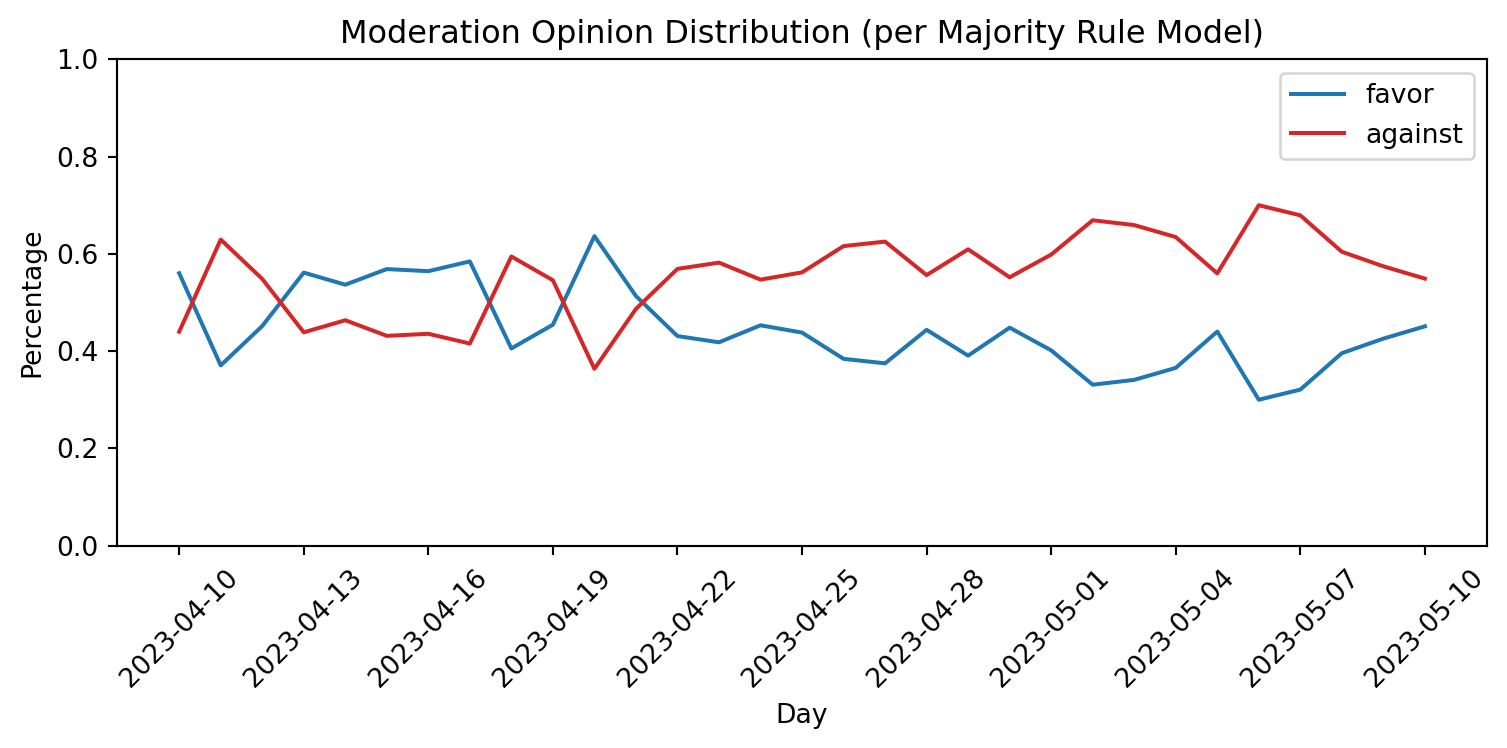
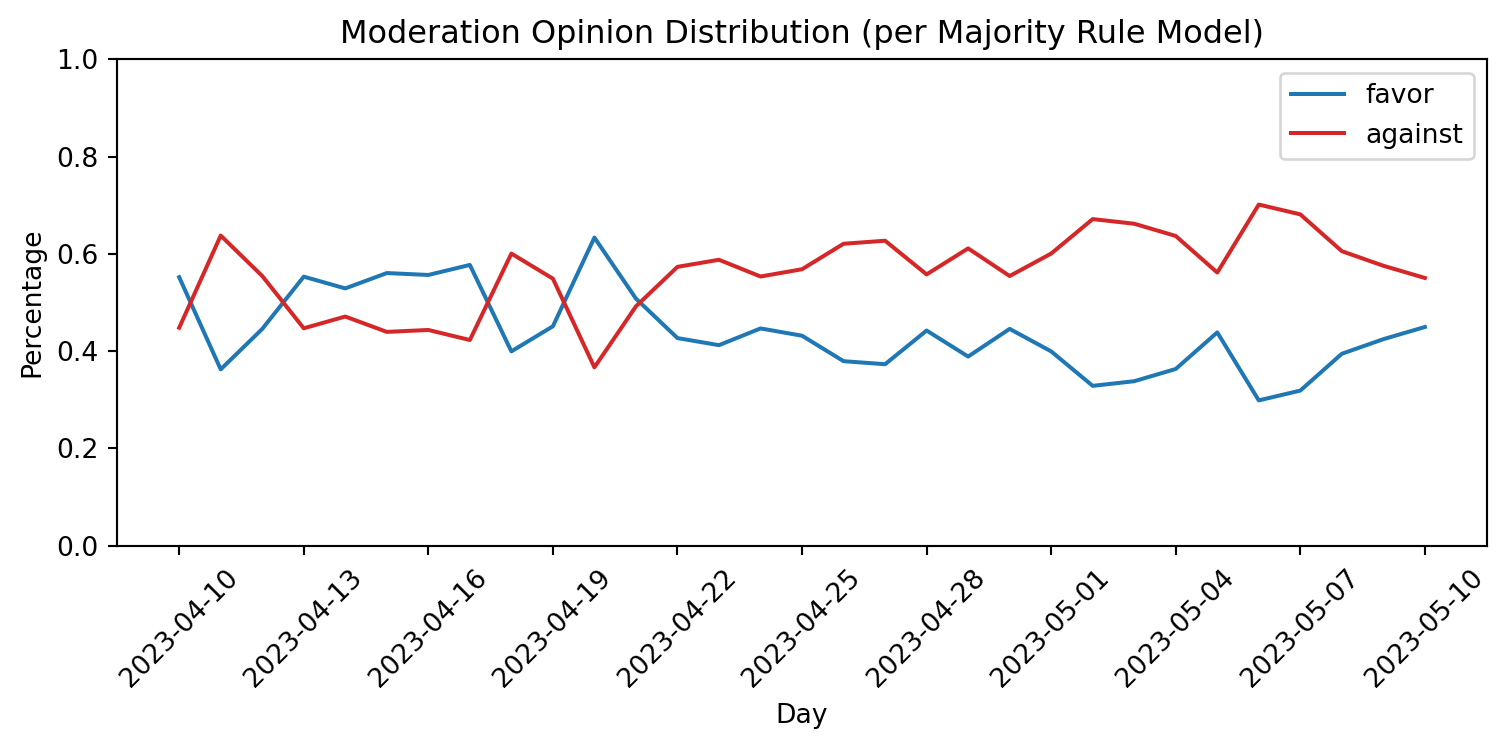
Updated demo text

diff --git a/examples/majority-demo.html b/examples/majority-demo.html
@@ -127,7 +127,7 @@ window.Quarto = {
 
 <p>This is a rough, elementary example walkthrough. I still need to work on the accuracy of the expressed belief classifications, and the dataset currently excludes replies, quotes, and non-English posts. So think of this as more of an explanation of the process than results to interpret.</p>
 <p>Belief classification improvement will be a continuous process.</p>
-<div id="e24bf547" class="cell" data-execution_count="2">
+<div id="c7089b01" class="cell" data-execution_count="1">
 <div class="sourceCode cell-code" id="cb1"><pre class="sourceCode python code-with-copy"><code class="sourceCode python"><span id="cb1-1"><a href="#cb1-1" aria-hidden="true" tabindex="-1"></a><span class="co"># Imports</span></span>
 <span id="cb1-2"><a href="#cb1-2" aria-hidden="true" tabindex="-1"></a><span class="im">import</span> json</span>
 <span id="cb1-3"><a href="#cb1-3" aria-hidden="true" tabindex="-1"></a><span class="im">import</span> random</span>
@@ -204,7 +204,7 @@ window.Quarto = {
 <section id="code" class="level3">
 <h3 class="anchored" data-anchor-id="code">Code</h3>
 <p>Below, I’ll be using a helper class, <code>BskyNet</code>, to parse the (quite large) <code>bsky-net</code> json file. All it’s really doing is helping me iterate over the data structure.</p>
-<div id="232a4fd2" class="cell" data-execution_count="3">
+<div id="0f62fd83" class="cell" data-execution_count="2">
 <div class="sourceCode cell-code" id="cb3"><pre class="sourceCode python code-with-copy"><code class="sourceCode python"><span id="cb3-1"><a href="#cb3-1" aria-hidden="true" tabindex="-1"></a>bsky_net <span class="op">=</span> BskyNet(<span class="st">"../data/processed/bsky-net-daily"</span>)</span>
 <span id="cb3-2"><a href="#cb3-2" aria-hidden="true" tabindex="-1"></a></span>
 <span id="cb3-3"><a href="#cb3-3" aria-hidden="true" tabindex="-1"></a>time_steps <span class="op">=</span> bsky_net.time_steps</span>
@@ -213,14 +213,14 @@ window.Quarto = {
 <pre><code>['2022-11-17', '2022-11-18', '2022-11-19', '2022-11-20', '2022-11-21', '2022-11-22', '2022-11-23', '2022-11-24', '2022-11-25', '2022-11-26', '2022-11-27', '2022-11-28', '2022-11-29', '2022-11-30', '2022-12-01', '2022-12-02', '2022-12-03', '2022-12-04', '2022-12-05', '2022-12-06', '2022-12-07', '2022-12-08', '2022-12-09', '2022-12-10', '2022-12-11', '2022-12-12', '2022-12-13', '2022-12-14', '2022-12-15', '2022-12-16', '2022-12-17', '2022-12-18', '2022-12-19', '2022-12-20', '2022-12-21', '2022-12-22', '2022-12-23', '2022-12-24', '2022-12-25', '2022-12-26', '2022-12-27', '2022-12-28', '2022-12-29', '2022-12-30', '2022-12-31', '2023-01-01', '2023-01-02', '2023-01-03', '2023-01-04', '2023-01-05', '2023-01-06', '2023-01-07', '2023-01-08', '2023-01-09', '2023-01-10', '2023-01-11', '2023-01-12', '2023-01-13', '2023-01-14', '2023-01-15', '2023-01-16', '2023-01-17', '2023-01-18', '2023-01-19', '2023-01-20', '2023-01-21', '2023-01-22', '2023-01-23', '2023-01-24', '2023-01-25', '2023-01-26', '2023-01-27', '2023-01-28', '2023-01-29', '2023-01-30', '2023-01-31', '2023-02-01', '2023-02-02', '2023-02-03', '2023-02-04', '2023-02-05', '2023-02-06', '2023-02-07', '2023-02-08', '2023-02-09', '2023-02-10', '2023-02-11', '2023-02-12', '2023-02-13', '2023-02-14', '2023-02-15', '2023-02-16', '2023-02-17', '2023-02-18', '2023-02-19', '2023-02-20', '2023-02-21', '2023-02-22', '2023-02-23', '2023-02-24', '2023-02-25', '2023-02-26', '2023-02-27', '2023-02-28', '2023-03-01', '2023-03-02', '2023-03-03', '2023-03-04', '2023-03-05', '2023-03-06', '2023-03-07', '2023-03-08', '2023-03-09', '2023-03-10', '2023-03-11', '2023-03-12', '2023-03-13', '2023-03-14', '2023-03-15', '2023-03-16', '2023-03-17', '2023-03-18', '2023-03-19', '2023-03-20', '2023-03-21', '2023-03-22', '2023-03-23', '2023-03-24', '2023-03-25', '2023-03-26', '2023-03-27', '2023-03-28', '2023-03-29', '2023-03-30', '2023-03-31', '2023-04-01', '2023-04-02', '2023-04-03', '2023-04-04', '2023-04-05', '2023-04-06', '2023-04-07', '2023-04-08', '2023-04-09', '2023-04-10', '2023-04-11', '2023-04-12', '2023-04-13', '2023-04-14', '2023-04-15', '2023-04-16', '2023-04-17', '2023-04-18', '2023-04-19', '2023-04-20', '2023-04-21', '2023-04-22', '2023-04-23', '2023-04-24', '2023-04-25', '2023-04-26', '2023-04-27', '2023-04-28', '2023-04-29', '2023-04-30', '2023-05-01', '2023-05-02', '2023-05-03', '2023-05-04', '2023-05-05', '2023-05-06', '2023-05-07', '2023-05-08', '2023-05-09', '2023-05-10']</code></pre>
 </div>
 </div>
-<p>As seen in <code>bsky_net.time_steps</code>, the dataset currently includes all activities on Bluesky up to May 7, 2023.</p>
+<p>As seen in <code>bsky_net.time_steps</code>, the dataset currently includes all activities on Bluesky up to May 10, 2023.</p>
 <p>To iterate over each time step, we’ll use <code>bsky_net.simulate()</code>:</p>
-<div id="e7222175" class="cell" data-execution_count="4">
-<div class="sourceCode cell-code" id="cb5"><pre class="sourceCode python code-with-copy"><code class="sourceCode python"><span id="cb5-1"><a href="#cb5-1" aria-hidden="true" tabindex="-1"></a><span class="cf">for</span> step, active_users <span class="kw">in</span> bsky_net.simulate(verbose<span class="op">=</span><span class="va">False</span>):</span>
-<span id="cb5-2"><a href="#cb5-2" aria-hidden="true" tabindex="-1"></a>    <span class="bu">print</span>(<span class="ss">f"</span><span class="sc">{</span>time_steps[step]<span class="sc">}</span><span class="ss"> (</span><span class="sc">{</span><span class="bu">len</span>(active_users)<span class="sc">}</span><span class="ss"> active users)</span><span class="ch">\n</span><span class="ss">"</span>)</span>
+<div id="3f7d6852" class="cell" data-execution_count="3">
+<div class="sourceCode cell-code" id="cb5"><pre class="sourceCode python code-with-copy"><code class="sourceCode python"><span id="cb5-1"><a href="#cb5-1" aria-hidden="true" tabindex="-1"></a><span class="cf">for</span> step, user_activity <span class="kw">in</span> bsky_net.simulate(verbose<span class="op">=</span><span class="va">False</span>):</span>
+<span id="cb5-2"><a href="#cb5-2" aria-hidden="true" tabindex="-1"></a>    <span class="bu">print</span>(<span class="ss">f"</span><span class="sc">{</span>time_steps[step]<span class="sc">}</span><span class="ss"> (</span><span class="sc">{</span><span class="bu">len</span>(user_activity)<span class="sc">}</span><span class="ss"> users with activity)</span><span class="ch">\n</span><span class="ss">"</span>)</span>
 <span id="cb5-3"><a href="#cb5-3" aria-hidden="true" tabindex="-1"></a>    <span class="cf">break</span></span></code><button title="Copy to Clipboard" class="code-copy-button"><i class="bi"></i></button></pre></div>
 <div class="cell-output cell-output-stdout">
-<pre><code>2022-11-17 (8 active users)
+<pre><code>2022-11-17 (8 users with activity)
 </code></pre>
 </div>
 </div>
@@ -232,7 +232,7 @@ window.Quarto = {
 <section id="model-definition" class="level3">
 <h3 class="anchored" data-anchor-id="model-definition">Model definition</h3>
 <p>For this example, we use the classic majority rule, which is defined as follows:</p>
-<div id="f12ff3f8" class="cell" data-execution_count="5">
+<div id="618492cb" class="cell" data-execution_count="4">
 <div class="sourceCode cell-code" id="cb7"><pre class="sourceCode python code-with-copy"><code class="sourceCode python"><span id="cb7-1"><a href="#cb7-1" aria-hidden="true" tabindex="-1"></a><span class="kw">def</span> majority_rule(beliefs: <span class="bu">list</span>[<span class="bu">str</span>], current_belief: <span class="bu">str</span>) <span class="op">-&gt;</span> <span class="bu">str</span>:</span>
 <span id="cb7-2"><a href="#cb7-2" aria-hidden="true" tabindex="-1"></a>    <span class="co">"""Calculate the majority belief from a list of expressed beliefs."""</span></span>
 <span id="cb7-3"><a href="#cb7-3" aria-hidden="true" tabindex="-1"></a></span>
@@ -260,7 +260,7 @@ window.Quarto = {
 <li>Below, I simply compare the user’s predicted belief with the majority of beliefs expressed in their posts during that time stamp. This is a very small <span class="math inline">\(n\)</span> size per time step, though, and can be improved</li>
 </ol></li>
 </ol>
-<div id="198435d0" class="cell" data-execution_count="6">
+<div id="947fe10e" class="cell" data-execution_count="5">
 <div class="sourceCode cell-code" id="cb8"><pre class="sourceCode python code-with-copy"><code class="sourceCode python"><span id="cb8-1"><a href="#cb8-1" aria-hidden="true" tabindex="-1"></a><span class="co"># Initialize belief log (for plotting)</span></span>
 <span id="cb8-2"><a href="#cb8-2" aria-hidden="true" tabindex="-1"></a>belief_history <span class="op">=</span> {</span>
 <span id="cb8-3"><a href="#cb8-3" aria-hidden="true" tabindex="-1"></a>    <span class="st">"favor"</span>: [<span class="dv">0</span>] <span class="op">*</span> <span class="bu">len</span>(bsky_net.time_steps),</span>
@@ -277,30 +277,30 @@ window.Quarto = {
 <span id="cb8-14"><a href="#cb8-14" aria-hidden="true" tabindex="-1"></a>internal_beliefs: <span class="bu">dict</span>[<span class="bu">str</span>, <span class="bu">str</span>] <span class="op">=</span> {}</span>
 <span id="cb8-15"><a href="#cb8-15" aria-hidden="true" tabindex="-1"></a></span>
 <span id="cb8-16"><a href="#cb8-16" aria-hidden="true" tabindex="-1"></a><span class="co"># Iterate over each time step</span></span>
-<span id="cb8-17"><a href="#cb8-17" aria-hidden="true" tabindex="-1"></a><span class="cf">for</span> step, active_users <span class="kw">in</span> bsky_net.simulate(verbose<span class="op">=</span><span class="va">False</span>):</span>
+<span id="cb8-17"><a href="#cb8-17" aria-hidden="true" tabindex="-1"></a><span class="cf">for</span> step, user_activity <span class="kw">in</span> bsky_net.simulate(verbose<span class="op">=</span><span class="va">False</span>):</span>
 <span id="cb8-18"><a href="#cb8-18" aria-hidden="true" tabindex="-1"></a>    <span class="co"># Initialize new users with random beliefs</span></span>
-<span id="cb8-19"><a href="#cb8-19" aria-hidden="true" tabindex="-1"></a>    new_users <span class="op">=</span> <span class="bu">set</span>(active_users) <span class="op">-</span> <span class="bu">set</span>(internal_beliefs.keys())</span>
+<span id="cb8-19"><a href="#cb8-19" aria-hidden="true" tabindex="-1"></a>    new_users <span class="op">=</span> <span class="bu">set</span>(user_activity) <span class="op">-</span> <span class="bu">set</span>(internal_beliefs.keys())</span>
 <span id="cb8-20"><a href="#cb8-20" aria-hidden="true" tabindex="-1"></a>    <span class="cf">for</span> user_id <span class="kw">in</span> new_users:</span>
 <span id="cb8-21"><a href="#cb8-21" aria-hidden="true" tabindex="-1"></a>        internal_beliefs[user_id] <span class="op">=</span> random.choice([<span class="st">"favor"</span>, <span class="st">"against"</span>])</span>
 <span id="cb8-22"><a href="#cb8-22" aria-hidden="true" tabindex="-1"></a></span>
 <span id="cb8-23"><a href="#cb8-23" aria-hidden="true" tabindex="-1"></a>    <span class="co"># Iterate over all current users</span></span>
 <span id="cb8-24"><a href="#cb8-24" aria-hidden="true" tabindex="-1"></a>    <span class="cf">for</span> did <span class="kw">in</span> internal_beliefs:</span>
 <span id="cb8-25"><a href="#cb8-25" aria-hidden="true" tabindex="-1"></a>        <span class="co"># If user doesn't have activity, don't update belief</span></span>
-<span id="cb8-26"><a href="#cb8-26" aria-hidden="true" tabindex="-1"></a>        <span class="cf">if</span> did <span class="kw">not</span> <span class="kw">in</span> active_users:</span>
+<span id="cb8-26"><a href="#cb8-26" aria-hidden="true" tabindex="-1"></a>        <span class="cf">if</span> did <span class="kw">not</span> <span class="kw">in</span> user_activity:</span>
 <span id="cb8-27"><a href="#cb8-27" aria-hidden="true" tabindex="-1"></a>            belief_history[internal_beliefs[did]][step] <span class="op">+=</span> <span class="dv">1</span>  <span class="co"># logging</span></span>
 <span id="cb8-28"><a href="#cb8-28" aria-hidden="true" tabindex="-1"></a>            <span class="cf">continue</span></span>
 <span id="cb8-29"><a href="#cb8-29" aria-hidden="true" tabindex="-1"></a></span>
 <span id="cb8-30"><a href="#cb8-30" aria-hidden="true" tabindex="-1"></a>        <span class="co"># ==== UPDATING BELIEFS ====</span></span>
 <span id="cb8-31"><a href="#cb8-31" aria-hidden="true" tabindex="-1"></a></span>
 <span id="cb8-32"><a href="#cb8-32" aria-hidden="true" tabindex="-1"></a>        <span class="co"># Get user's activity during time step -- posts observed, created, liked</span></span>
-<span id="cb8-33"><a href="#cb8-33" aria-hidden="true" tabindex="-1"></a>        activity <span class="op">=</span> active_users[did]</span>
+<span id="cb8-33"><a href="#cb8-33" aria-hidden="true" tabindex="-1"></a>        activity <span class="op">=</span> user_activity[did]</span>
 <span id="cb8-34"><a href="#cb8-34" aria-hidden="true" tabindex="-1"></a></span>
 <span id="cb8-35"><a href="#cb8-35" aria-hidden="true" tabindex="-1"></a>        <span class="co"># Get beliefs observed by user (posted by neighbors)</span></span>
 <span id="cb8-36"><a href="#cb8-36" aria-hidden="true" tabindex="-1"></a>        observed_moderation_beliefs <span class="op">=</span> bsky_net.get_beliefs(</span>
 <span id="cb8-37"><a href="#cb8-37" aria-hidden="true" tabindex="-1"></a>            topic<span class="op">=</span><span class="st">"moderation"</span>, records<span class="op">=</span>activity[<span class="st">"seen"</span>]</span>
 <span id="cb8-38"><a href="#cb8-38" aria-hidden="true" tabindex="-1"></a>        )</span>
 <span id="cb8-39"><a href="#cb8-39" aria-hidden="true" tabindex="-1"></a></span>
-<span id="cb8-40"><a href="#cb8-40" aria-hidden="true" tabindex="-1"></a>        <span class="co"># User observed no beliefs -- don't update</span></span>
+<span id="cb8-40"><a href="#cb8-40" aria-hidden="true" tabindex="-1"></a>        <span class="co"># User observed no expressed beliefs -- don't update</span></span>
 <span id="cb8-41"><a href="#cb8-41" aria-hidden="true" tabindex="-1"></a>        <span class="cf">if</span> <span class="kw">not</span> observed_moderation_beliefs:</span>
 <span id="cb8-42"><a href="#cb8-42" aria-hidden="true" tabindex="-1"></a>            belief_history[internal_beliefs[did]][step] <span class="op">+=</span> <span class="dv">1</span>  <span class="co"># logging</span></span>
 <span id="cb8-43"><a href="#cb8-43" aria-hidden="true" tabindex="-1"></a>            <span class="cf">continue</span></span>
@@ -318,7 +318,7 @@ window.Quarto = {
 <span id="cb8-55"><a href="#cb8-55" aria-hidden="true" tabindex="-1"></a></span>
 <span id="cb8-56"><a href="#cb8-56" aria-hidden="true" tabindex="-1"></a>        <span class="co"># ==== VALIDATING BELIEFS (when possible) ====</span></span>
 <span id="cb8-57"><a href="#cb8-57" aria-hidden="true" tabindex="-1"></a></span>
-<span id="cb8-58"><a href="#cb8-58" aria-hidden="true" tabindex="-1"></a>        <span class="co"># Get beliefs expressed by user: "ground truth"</span></span>
+<span id="cb8-58"><a href="#cb8-58" aria-hidden="true" tabindex="-1"></a>        <span class="co"># Get beliefs expressed by user -- "ground truth"</span></span>
 <span id="cb8-59"><a href="#cb8-59" aria-hidden="true" tabindex="-1"></a>        expressed_moderation_beliefs: <span class="bu">list</span>[<span class="bu">str</span>] <span class="op">=</span> bsky_net.get_beliefs(</span>
 <span id="cb8-60"><a href="#cb8-60" aria-hidden="true" tabindex="-1"></a>            topic<span class="op">=</span><span class="st">"moderation"</span>, records<span class="op">=</span>activity[<span class="st">"posted"</span>]</span>
 <span id="cb8-61"><a href="#cb8-61" aria-hidden="true" tabindex="-1"></a>        )</span>
@@ -338,8 +338,8 @@ window.Quarto = {
 <span id="cb8-75"><a href="#cb8-75" aria-hidden="true" tabindex="-1"></a>)</span></code><button title="Copy to Clipboard" class="code-copy-button"><i class="bi"></i></button></pre></div>
 <div class="cell-output cell-output-stdout">
 <pre><code>Breakdown of beliefs at t=2023-05-10: {
-  "favor": 24729,
-  "against": 30107
+  "favor": 24656,
+  "against": 30180
 }</code></pre>
 </div>
 </div>
@@ -348,7 +348,7 @@ window.Quarto = {
 <section id="plotting" class="level2">
 <h2 class="anchored" data-anchor-id="plotting">Plotting</h2>
 <p>I truncated the data prior to April 10 for the plots because of how little data there was.</p>
-<div id="a0e08727" class="cell" data-execution_count="7">
+<div id="c05f4707" class="cell" data-execution_count="6">
 <details class="code-fold">
 <summary>Show the code</summary>
 <div class="sourceCode cell-code" id="cb10"><pre class="sourceCode python code-with-copy"><code class="sourceCode python"><span id="cb10-1"><a href="#cb10-1" aria-hidden="true" tabindex="-1"></a>start_day <span class="op">=</span> <span class="st">"2023-04-10"</span></span>
@@ -400,7 +400,7 @@ window.Quarto = {
 </div>
 </div>
 </div>
-<div id="03ee1dd2" class="cell" data-execution_count="8">
+<div id="dbe7ba94" class="cell" data-execution_count="7">
 <details class="code-fold">
 <summary>Show the code</summary>
 <div class="sourceCode cell-code" id="cb11"><pre class="sourceCode python code-with-copy"><code class="sourceCode python"><span id="cb11-1"><a href="#cb11-1" aria-hidden="true" tabindex="-1"></a>fix, ax <span class="op">=</span> plt.subplots(figsize<span class="op">=</span>(<span class="dv">8</span>, <span class="dv">4</span>))</span>

diff --git a/examples/majority-demo.py b/examples/majority-demo.py
@@ -136,7 +136,7 @@ print(time_steps)
 
 """
 As seen in `bsky_net.time_steps`, the dataset currently includes all
-activities on Bluesky up to May 7, 2023.
+activities on Bluesky up to May 10, 2023.
 
 To iterate over each time step, we'll use `bsky_net.simulate()`:
 """
